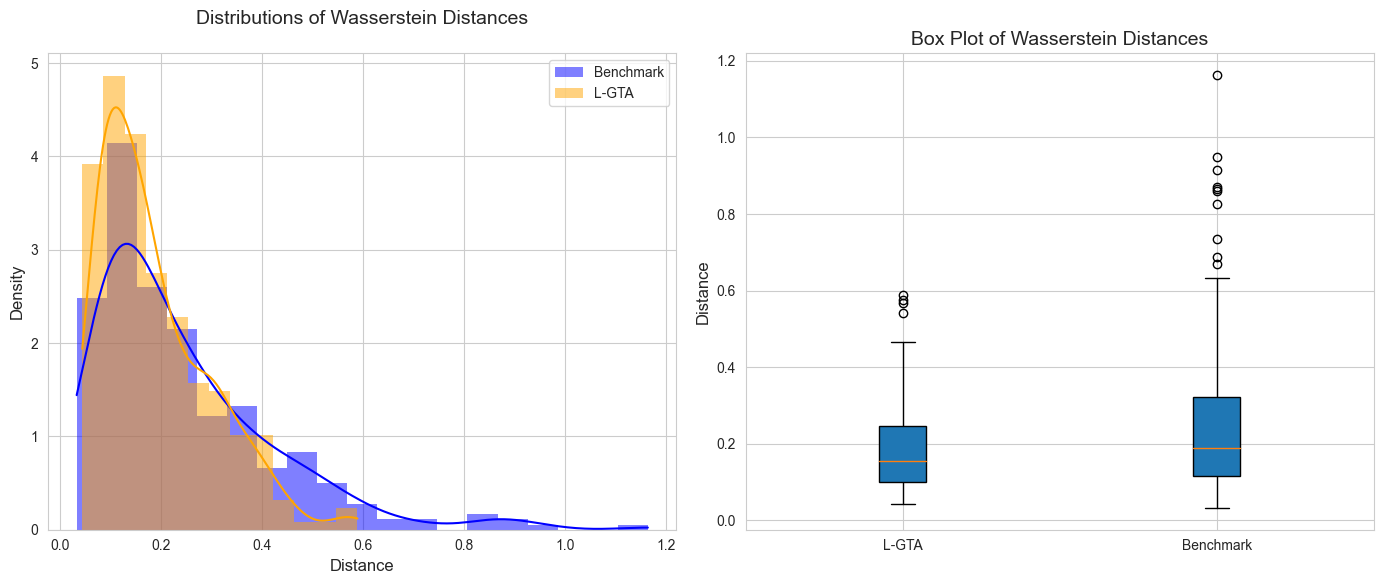
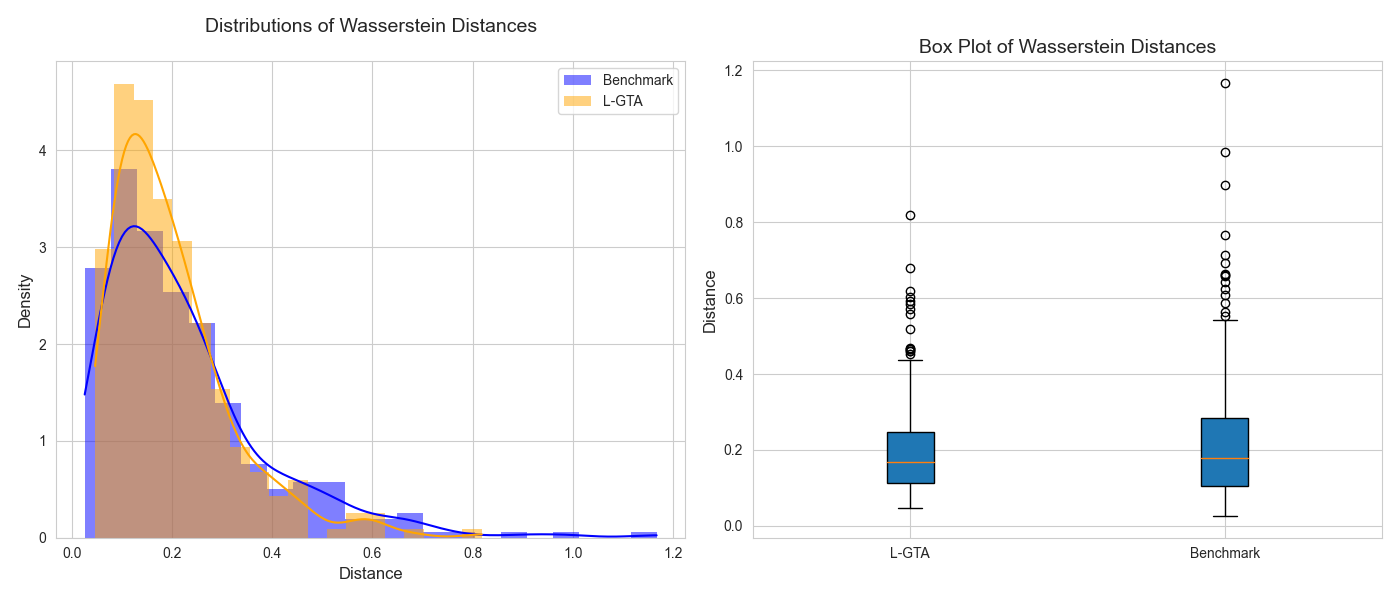
improving results image and bugfix on metric

diff --git a/lgta/e2e/e2e_processing.py b/lgta/e2e/e2e_processing.py
@@ -215,7 +215,7 @@ def compute_and_print_errors(X_orig, X_hat_transf, X_benchmark):
 def summarize_and_plot_distributions(distances_lgta, distances_benchmark, title):
     # Calculate metrics
     metrics_lgta = {
-        "Mean": np.median(distances_lgta),
+        "Mean": np.mean(distances_lgta),
         "Median": np.median(distances_lgta),
         "IQR": iqr(distances_lgta),
         "Skewness": skew(distances_lgta),
@@ -223,7 +223,7 @@ def summarize_and_plot_distributions(distances_lgta, distances_benchmark, title)
     }
 
     metrics_benchmark = {
-        "Mean": np.median(distances_benchmark),
+        "Mean": np.mean(distances_benchmark),
         "Median": np.median(distances_benchmark),
         "IQR": iqr(distances_benchmark),
         "Skewness": skew(distances_benchmark),

diff --git a/lgta/experiments/testing_benchmark_vs_lgta.py b/lgta/experiments/testing_benchmark_vs_lgta.py
@@ -136,7 +136,7 @@ transformations = [
     },
     {
         "transformation": "magnitude_warp",
-        "params": [0.4],
+        "params": [0.45],
         "parameters_benchmark": {
             "jitter": 0.375,
             "scaling": 0.1,
